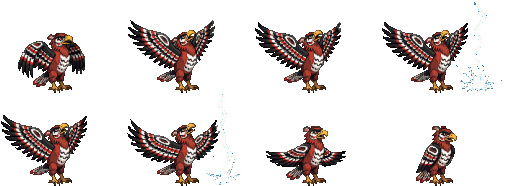
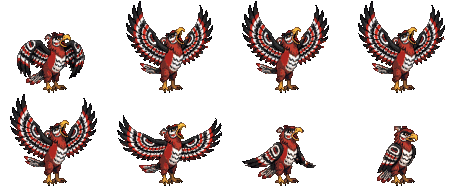
Oiseau-tonnerre : attaque refaite sans éclair ; PLAN, HISTORIQUE, METHODE
L'attaque montre seulement le geste (ailes déployées, cri vers le ciel) :
la foudre est jouée par le jeu sur la case de la cible.

diff --git a/CLAUDE.md b/CLAUDE.md
@@ -57,7 +57,7 @@ Décision de l'utilisateur, valable pour toutes les sessions :
   références, hauteur, choix faits) et un gabarit par sorte de créature ; `tools/art/nettoyage.py` contient les
   traitements d'image. Voir la créature en jeu : `--creature-preview=id1,id2` (avec `--battle-auto`).
   Captures du jeu : `godot` avec `-- --capture=chemin.png` (et `--reveal`, `--zoom`, `--terrain-test`,
-  `--town` (et `--town-window=build|recruit|tavern|count|guild|market`, `--town-build=id`), `--rules`, `--center=treasure` ou `obelisk`, `--treasure-map`, `--dig-test`, `--battle-test` (et `--battle-auto`, `--battle-book` ou `--battle-book=id` : le livre de sorts, ou ce sort à viser ; `--battle-options` : les options du combat), `--spells` (le héros connaît tous les sorts), `--battle-showcase`, `--creature-preview=id,…`, `--hover=x,y` (case survolée), `--open=hero`, `kingdom`, `level`, `end`, `options`, `save` ou `spellbook` (écran du héros, royaume, choix de niveau, fin de partie, options, sauvegarder, livre de sorts), `--menu` (ou `--menu=new`, `--menu=load` : menu principal ; `--dropdown-open` : la liste des tailles ouverte), `--ui-preview` (propositions d'éléments d'interface), `--size=tiny|small|normal|large|huge` (taille de la carte), `--opponents=N` (adversaires), `--center=opponent`, `--turns=N` (jouer N jours au lancement), `--defense-test` (un adversaire attaque ; `--defense-tactical` : défense dirigée), `--difficulty=easy|normal|hard`, `--faction=morts-vivants` (la faction du joueur), `--capture-delay=secondes`, `--shadow=force,longueur,penche,contact,flou` (les ombres de la carte, ex. `0.45,0.5,0.45,0.5,0.6`), `--shadow-tune` (curseurs pour régler les ombres en jeu), `--cursor-preview=dossier`, `--ground=réglage:valeur` (le shader du sol, ex. `beach_width:6,flower_density:0.15`) selon le besoin).
+  `--town` (et `--town-window=build|recruit|tavern|count|guild|market`, `--town-build=id`), `--rules`, `--center=treasure` ou `obelisk`, `--treasure-map`, `--dig-test`, `--battle-test` (et `--battle-auto`, `--battle-book` ou `--battle-book=id` : le livre de sorts, ou ce sort à viser ; `--battle-options` : les options du combat), `--spells` (le héros connaît tous les sorts), `--battle-showcase`, `--creature-preview=id,…`, `--effect-preview=foudre` (un effet de combat joué en boucle sur les troupes ; `foudre:0.2` : figé à cet instant), `--hover=x,y` (case survolée), `--open=hero`, `kingdom`, `level`, `end`, `options`, `save` ou `spellbook` (écran du héros, royaume, choix de niveau, fin de partie, options, sauvegarder, livre de sorts), `--menu` (ou `--menu=new`, `--menu=load` : menu principal ; `--dropdown-open` : la liste des tailles ouverte), `--ui-preview` (propositions d'éléments d'interface), `--size=tiny|small|normal|large|huge` (taille de la carte), `--opponents=N` (adversaires), `--center=opponent`, `--turns=N` (jouer N jours au lancement), `--defense-test` (un adversaire attaque ; `--defense-tactical` : défense dirigée), `--difficulty=easy|normal|hard`, `--faction=morts-vivants` (la faction du joueur), `--capture-delay=secondes`, `--shadow=force,longueur,penche,contact,flou` (les ombres de la carte, ex. `0.45,0.5,0.45,0.5,0.6`), `--shadow-tune` (curseurs pour régler les ombres en jeu), `--cursor-preview=dossier`, `--ground=réglage:valeur` (le shader du sol, ex. `beach_width:6,flower_density:0.15`) selon le besoin).
 
 ## Commandes
 - Tests : `dotnet test` (à la racine)

diff --git a/HISTORIQUE.md b/HISTORIQUE.md
@@ -788,6 +788,16 @@ Après l'IA (choix de l'utilisateur), qui devra ensuite apprendre la magie et le
   trop « croustillant » : le second demande des formes simples et un ombrage doux, avec la ville du Château comme image
   de style (au lieu de la mine d'or) et le candidat aimé comme modèle. Le contour noir trop épais est adouci
   (`tools/art/adoucir.py`, assombrir 0,7, seuil 60, 2 passes), et la ville des morts-vivants de même.
+- ✅ Foudre de l'Oiseau-tonnerre sur la case de la cible (2026-11-09, branche `foudre-cible`) : un **effet joué sur
+  une case** (`BattleEffects.OnHex("foudre", sol)`), dessiné par le jeu en pixels d'art, et non plus dans l'animation de
+  l'attaquant (choix de l'utilisateur : dessiné par le jeu plutôt qu'une feuille d'images). Déroulé : un traceur pâle
+  descend du haut du champ (0,12 s, `LightningHitTime`), puis l'éclair éclate (cœur blanc de 3 pixels d'art, halo jaune
+  pâle, trois branches fines, zigzag : des pas de 14 pixels d'art qui changent de côté), s'éteint 0,04 s et éclate de
+  nouveau plus faible ; étincelles au point d'impact ; au sol, sous les troupes (`DrawGround`), une lueur blanche puis
+  une marque brûlée qui s'efface (1,1 s en tout). Les dégâts s'affichent quand l'éclair touche le sol ; l'ancien éclat
+  jaune des cases est retiré. Aperçu : `--effect-preview=foudre` (une troupe après l'autre) ou `foudre:0.2` (figé, pour
+  les captures). Attaque refaite (PixelLab, 4 essais, 0,06 $) : ailes déployées en totem, cri vers le ciel, sans
+  éclair ; choisie `attack-2-r` (l'image 2 avait une étincelle : remplacée par la 3, morceaux détachés effacés).
 - ✅ Créatures barbares (2026-11-09, branche `creatures-barbares`, PixelLab, environ 3 $) : fiches dans
   `tools/art/creatures-art.json`, faites avec `tools/art/creature.py`. Choix de l'utilisateur : **Nomades**, archers à cheval des
   steppes au repos (sabre baissé), sur **2 cases** ; **Oiseau-tonnerre**, oiseau-totem (rouge, noir et blanc), ailes repliées,

diff --git a/PLAN.md b/PLAN.md
@@ -409,10 +409,9 @@ croissance, prix, garde.
   ✅ **Créatures barbares** (2026-11-09, branche `creatures-barbares`) : Nomades (2 cases), Oiseau-tonnerre (1 case, vol
   avec envol et atterrissage), Béhémoth (1 case, debout) : images de combat, animations et images de la carte. Détail
   dans `HISTORIQUE.md`.
-  - plus tard (idée de l'utilisateur, 2026-11-09) : les effets d'attaque comme la **foudre de l'Oiseau-tonnerre** joués à
-    part, sur la case de la cible (`BattleEffects`), et non dans l'animation de l'attaquant : la foudre frappe la cible
-    même si elle n'est pas juste devant lui (un peu plus bas…). Il faudra alors refaire son attaque sans éclair dessiné,
-    et voir avec la session règles où se joue l'éclat jaune de la foudre (`BattleFieldView`).
+  ✅ **Foudre sur la case de la cible** (2026-11-09, branche `foudre-cible`) : la foudre tombe du ciel sur la troupe
+  touchée, dessinée par le jeu (`BattleEffects.OnHex` : un effet joué sur une case, à réutiliser pour les sorts) ;
+  l'Oiseau-tonnerre attaque ailes déployées, sans éclair dessiné. Détail dans `HISTORIQUE.md`.
 - **La ville vue de face par faction** (conçue avec l'utilisateur, 2026-11-07, rien n'est encore fait) : les règles
   (`buildings.json`) ne gardent plus la place des bâtiments ; chaque faction a sa **scène** (`art/towns/<faction>/` :
   un fond de 640 × 195 affiché ×3, et `scene.json` : pour chaque bâtiment, son pied (bas, milieu), sa profondeur et son

diff --git a/tools/art/METHODE.md b/tools/art/METHODE.md
@@ -99,8 +99,10 @@ les clés et le dossier `art-candidats/` sont décrits dans `CLAUDE.md` ; l'hist
     le déplacement et à l'envers après). Couper les images où la pose est tenue (sinon il « lévite »).
   - Une **boucle** (galop) : retirer les images du départ et du retour à l'arrêt ; « moveFrames », « move » (images/s) et
     « stepTime » dans `animations.json` règlent la vitesse (une marche fait un cycle par case par défaut).
-  - Demander un **éclair** dans une attaque : remplacer la fin « no visual effects » (`--sans="no other character, no
-    explosion, no white flash"`). Mieux, plus tard : un effet du jeu sur la case de la cible (voir `PLAN.md`).
+  - Un **éclair** (ou tout effet qui tombe sur la cible) : le jeu le joue sur la case de la cible
+    (`BattleEffects.OnHex`) ; l'attaque ne montre que le geste (Oiseau-tonnerre : « raises its wings high… lifts its head
+    toward the sky with its beak wide open in a fierce cry », sans les mots foudre ni orage). Le second modèle déploie
+    plus les ailes mais ajoute parfois une étincelle : `retoucher --copier=2:3 --detaches`.
 
 - **Échelle commune** : un humain fait environ 46 à 54 px de haut (à peu près une case), le Gobelin environ 28, l'Orc 41,
   le Zombie 44, l'Ogre 58, le Troll 64 (orc < ogre < troll), le Colosse 70 ; le Cavalier et le Dragon, longs, couvrent 2 cases (environ 90 × 80).
